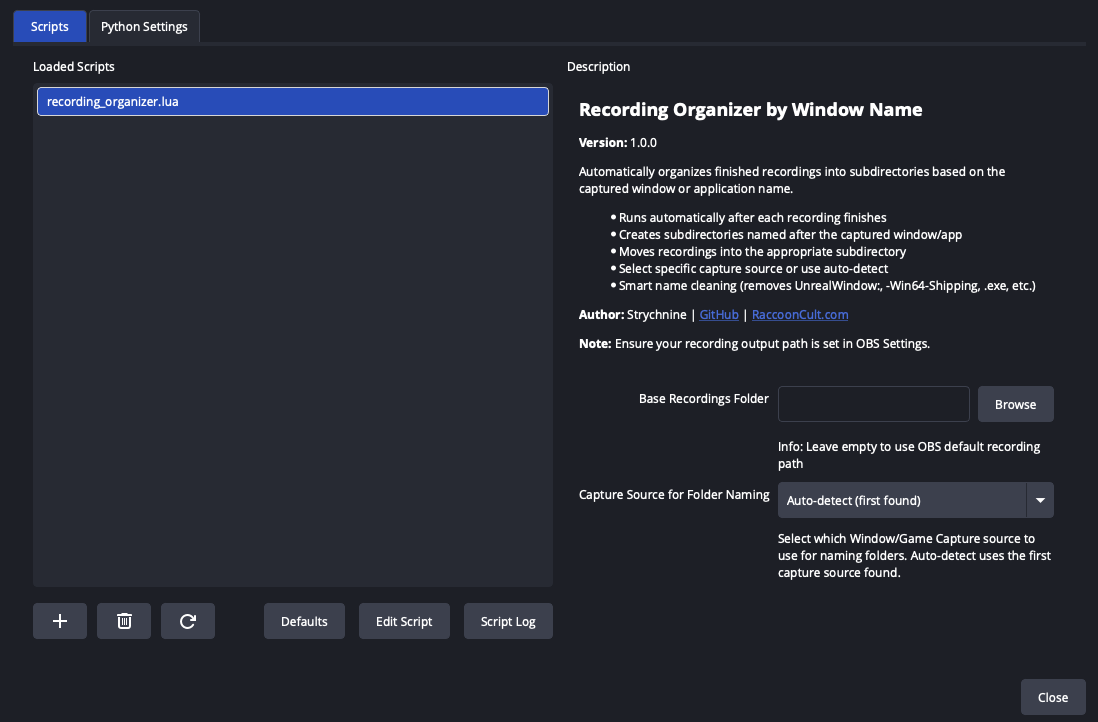
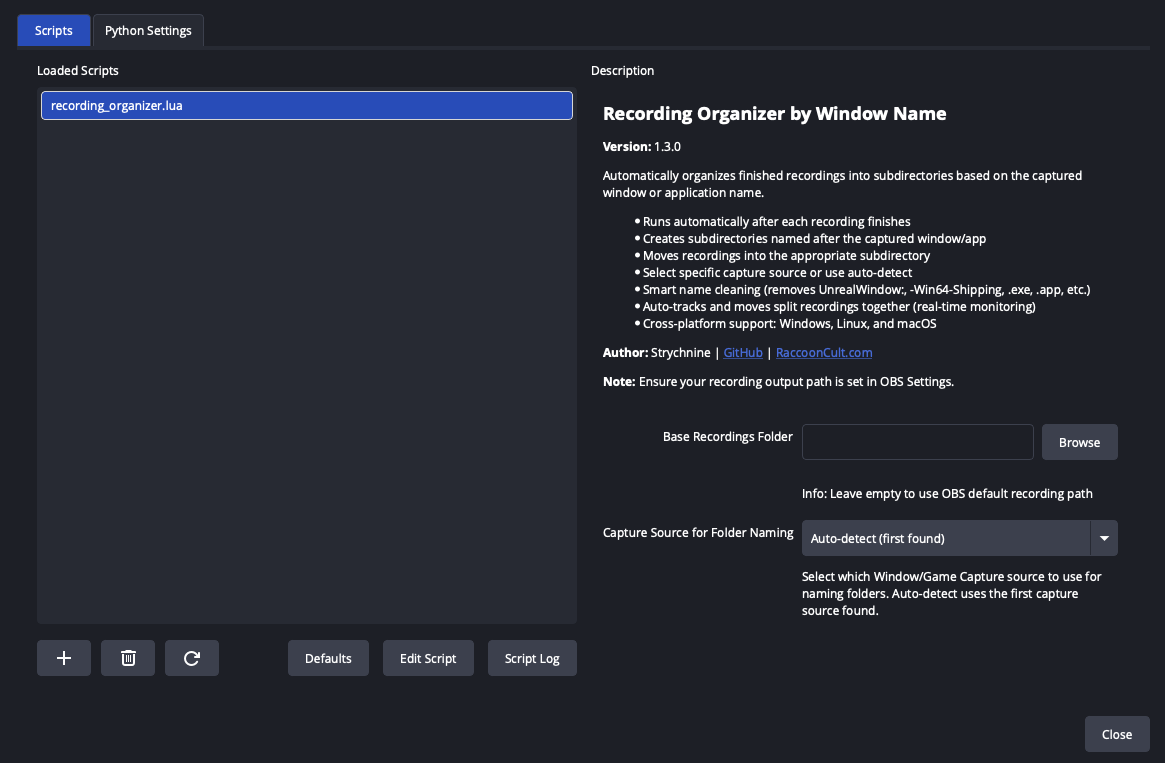
Added release notes, fixed some issues with splitting

diff --git a/RELEASE_NOTES.md b/RELEASE_NOTES.md
@@ -1,0 +1,179 @@
+# Release Notes
+
+## v1.3.0 - Real-Time Split Recording Support (2025-10-06)
+
+### 🎉 Major Features
+
+#### Real-Time Split Recording Tracking
+**Automatic tracking and organization of split recordings with zero configuration!**
+
+- **Active monitoring** during recording (checks every 2 seconds)
+- **Real-time detection** of new segments as OBS creates them
+- **Automatic organization** of ALL segments when recording stops
+- **Works with any split size** or time-based splitting
+
+**Before:** Only the last segment was moved, earlier segments were left behind  
+**After:** All segments from the entire recording session are moved together
+
+**Example:**
+```
+Recording starts → Script begins tracking
+├─ 11:50:20.mov created (50MB) → Tracked
+├─ 11:51:28.mov created (50MB) → Tracked  
+└─ 11:52:34.mov created (final) → Tracked
+
+Recording stops → All 3 files moved to organized folder
+```
+
+### Technical Changes
+
+- **ADDED:** Timer-based segment monitoring (`check_for_new_segments()`)
+- **ADDED:** Event handling for `OBS_FRONTEND_EVENT_RECORDING_STARTING`
+- **CHANGED:** Organization strategy from pattern matching to active tracking
+- **IMPROVED:** Log output shows segment detection in real-time
+- **FIXED:** Split recordings now properly move all segments together
+
+### Log Output Example
+```
+Recording Organizer: Recording starting, tracking segments...
+Recording Organizer: Detected new segment: 2025-10-06 11-50-20.mov
+Recording Organizer: Detected new segment: 2025-10-06 11-51-28.mov
+Recording Organizer: Recording stopped, processing...
+Recording Organizer: Found 3 segment(s) to organize
+Recording Organizer: Successfully moved: 2025-10-06 11-50-20.mov
+Recording Organizer: Successfully moved: 2025-10-06 11-51-28.mov
+Recording Organizer: Successfully moved: 2025-10-06 11-52-34.mov
+Recording Organizer: Moved 3/3 file(s) to: Recordings/pycharm
+```
+
+---
+
+## v1.2.0 - Initial Split Recording Support (2025-10-06)
+
+### Features
+
+- **ADDED:** Split recording detection via pattern matching
+- **ADDED:** `find_split_recordings()` function for segment discovery
+- **NOTE:** This approach was superseded by v1.3.0's real-time tracking
+
+---
+
+## v1.1.0 - macOS Support (2025-10-06)
+
+### 🎉 Major Features
+
+#### Full macOS Support
+**Recording Organizer now works on macOS!**
+
+- ✅ **macOS Screen Capture** source type detection (`screen_capture`)
+- ✅ **Application capture** extracts app names from bundle IDs
+  - Example: `com.jetbrains.pycharm` → `pycharm`
+- ✅ **Window & Display modes** supported with fallback to source names
+- ✅ **Bundle ID parsing** for automatic app name extraction
+- ✅ Unix-style directory handling (`mkdir -p`)
+
+### Technical Changes
+
+- **ADDED:** `screen_capture` source type support in detection functions
+- **ADDED:** `extract_app_name_from_bundle()` function
+- **ADDED:** macOS-specific window title extraction patterns
+- **ADDED:** `.app` extension removal in folder name sanitization
+- **UPDATED:** Source type list to include "macOS Screen Capture"
+- **UPDATED:** Comments to clarify Unix/macOS compatibility
+
+### Setup for macOS Users
+
+For best results with macOS Screen Capture:
+
+1. Open source properties
+2. Set **Method** to **"Application"** (not Window or Display)
+3. Select the application you're capturing
+4. The script will automatically extract the app name for folders
+
+**Alternative:** Rename your Screen Capture source to match what you're recording (e.g., "Blender Project").
+
+### Documentation Updates
+
+- Added macOS Screen Capture setup section
+- Updated troubleshooting with macOS-specific guidance
+- Added cross-platform compatibility notes
+- Updated feature list to include macOS
+
+---
+
+## v1.0.0 - Initial Release
+
+### Features
+
+- **Automatic organization** of recordings after each session
+- **Smart window detection** from Window Capture and Game Capture sources
+- **Clean folder names** - removes `UnrealWindow:`, `-Win64-Shipping`, `.exe`, etc.
+- **Source selection** - Auto-detect or choose specific capture source
+- **Duplicate handling** - Auto-increments filenames if conflicts occur
+- **Cross-platform** - Windows and Linux support
+
+### Supported Capture Types
+
+- Windows: `window_capture`, `game_capture`
+- Linux: `xcomposite_input`
+
+### Technical Implementation
+
+- Event-driven: `OBS_FRONTEND_EVENT_RECORDING_STOPPED`
+- Lua-based: No external dependencies
+- Scene enumeration for source detection
+- Settings persistence via OBS data
+
+---
+
+## Upgrade Instructions
+
+1. **Download** the latest `recording_organizer.lua`
+2. In OBS: **Tools** → **Scripts**
+3. **Remove** old version (click ➖)
+4. **Add** new version (click ➕)
+5. **Done!** Settings are preserved
+
+---
+
+## Platform Support Matrix
+
+| Platform | Supported | Capture Types | Notes |
+|----------|-----------|---------------|-------|
+| Windows  | ✅ | Window Capture, Game Capture | Full support |
+| Linux    | ✅ | XComposite | Full support |
+| macOS    | ✅ | Screen Capture | Use "Application" mode for best results |
+
+---
+
+## Known Issues
+
+### v1.3.0
+No known issues.
+
+### Previous Versions
+- **v1.2.0:** Pattern matching failed with OBS timestamp-based split naming (fixed in v1.3.0)
+- **v1.1.0:** Initial macOS implementation required script reload
+
+---
+
+## Contributing
+
+Found a bug? Have a feature request? 
+
+- **GitHub:** [RaccoonCultSoftware/recording-organizer](https://github.com/RaccoonCultSoftware/recording-organizer)
+- **Issues:** [Submit an issue](https://github.com/RaccoonCultSoftware/recording-organizer/issues)
+
+---
+
+## Credits
+
+**Author:** Strychnine  
+**GitHub:** [@rabbitcannon](https://github.com/rabbitcannon)  
+**Website:** [RaccoonCult.com](https://raccooncult.com)
+
+**License:** MIT
+
+---
+
+**Made with ❤ for the OBS community**
